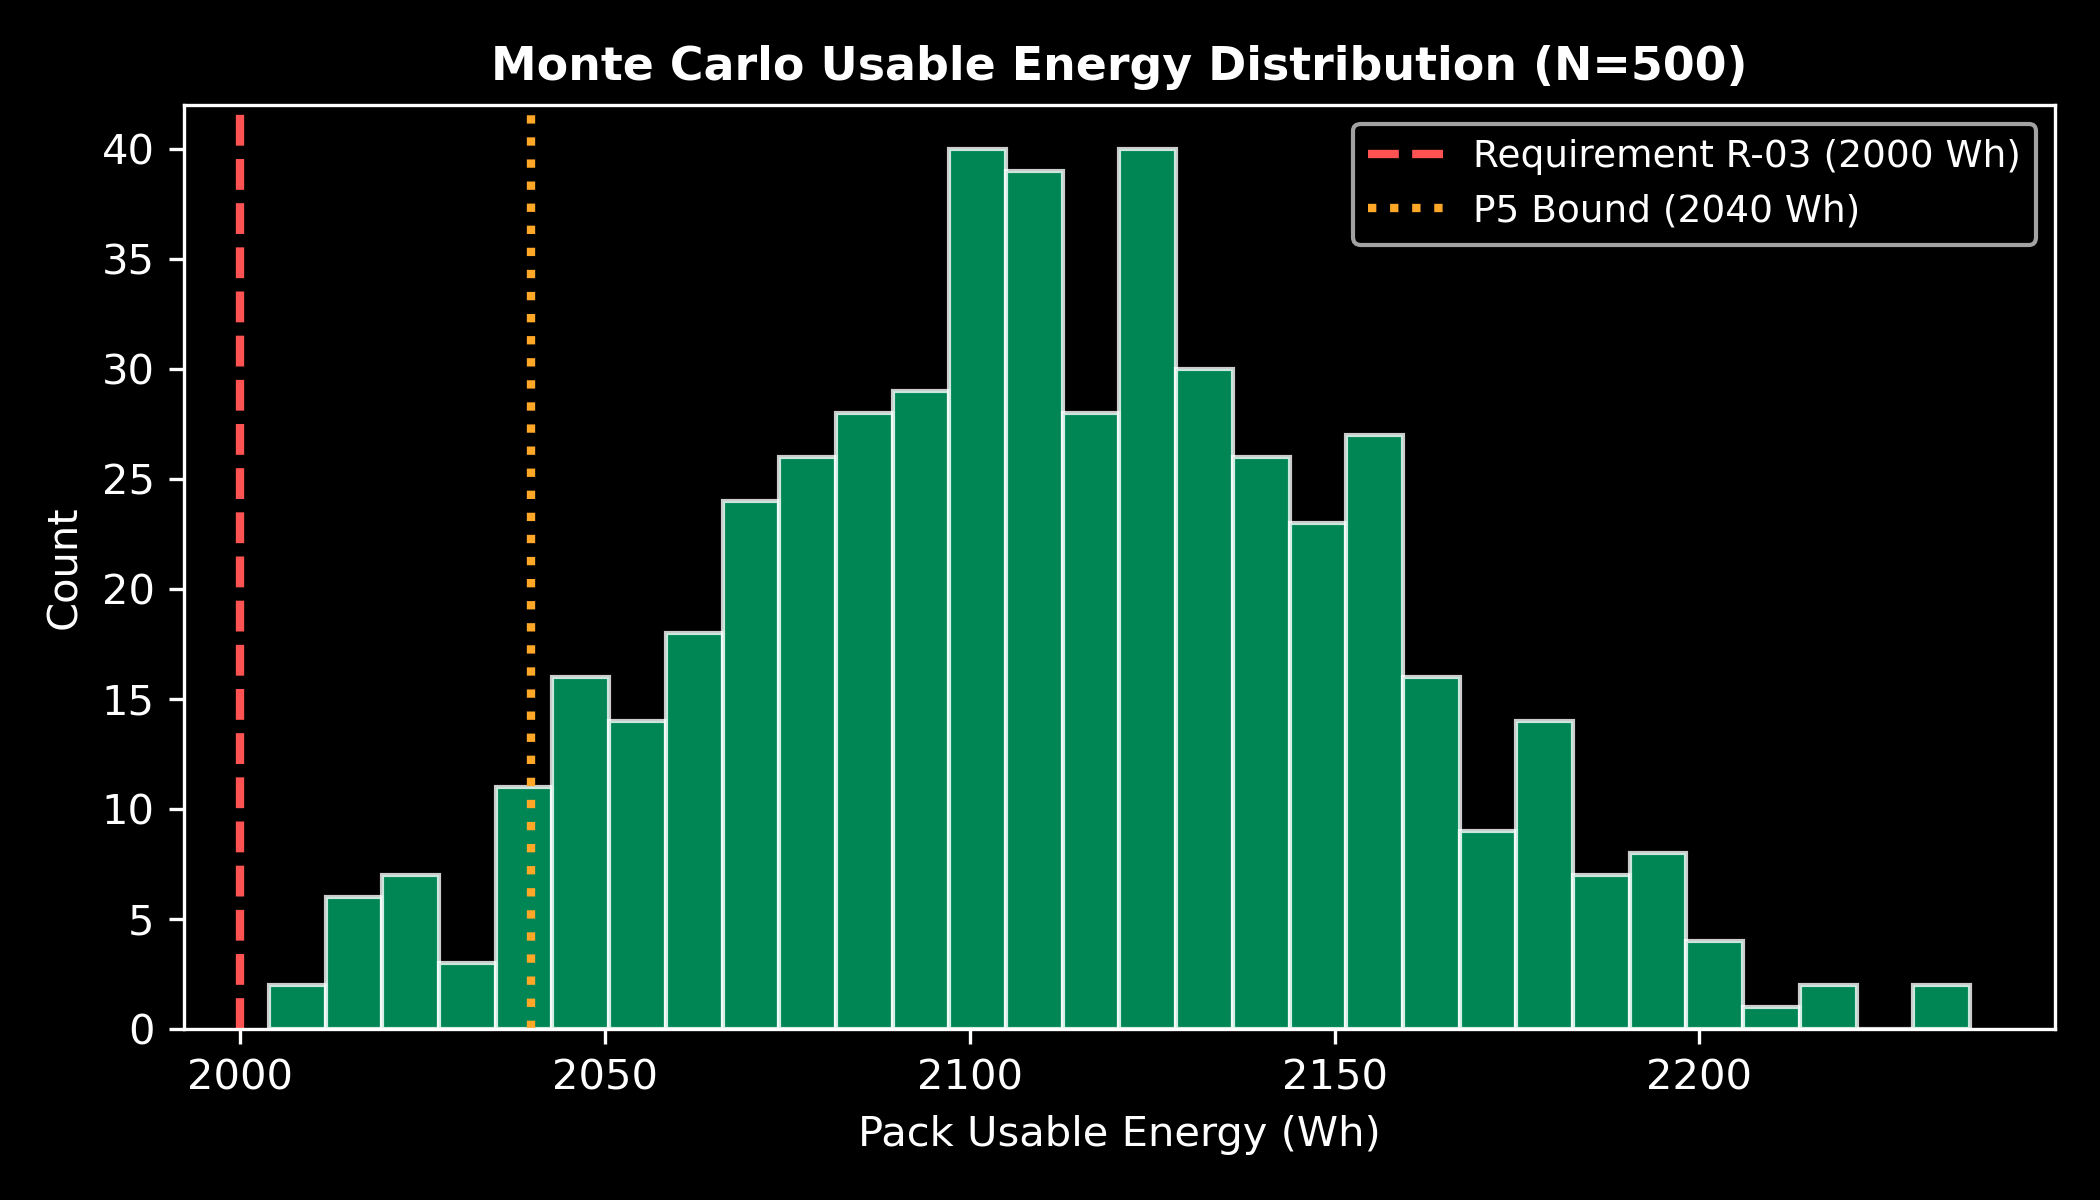
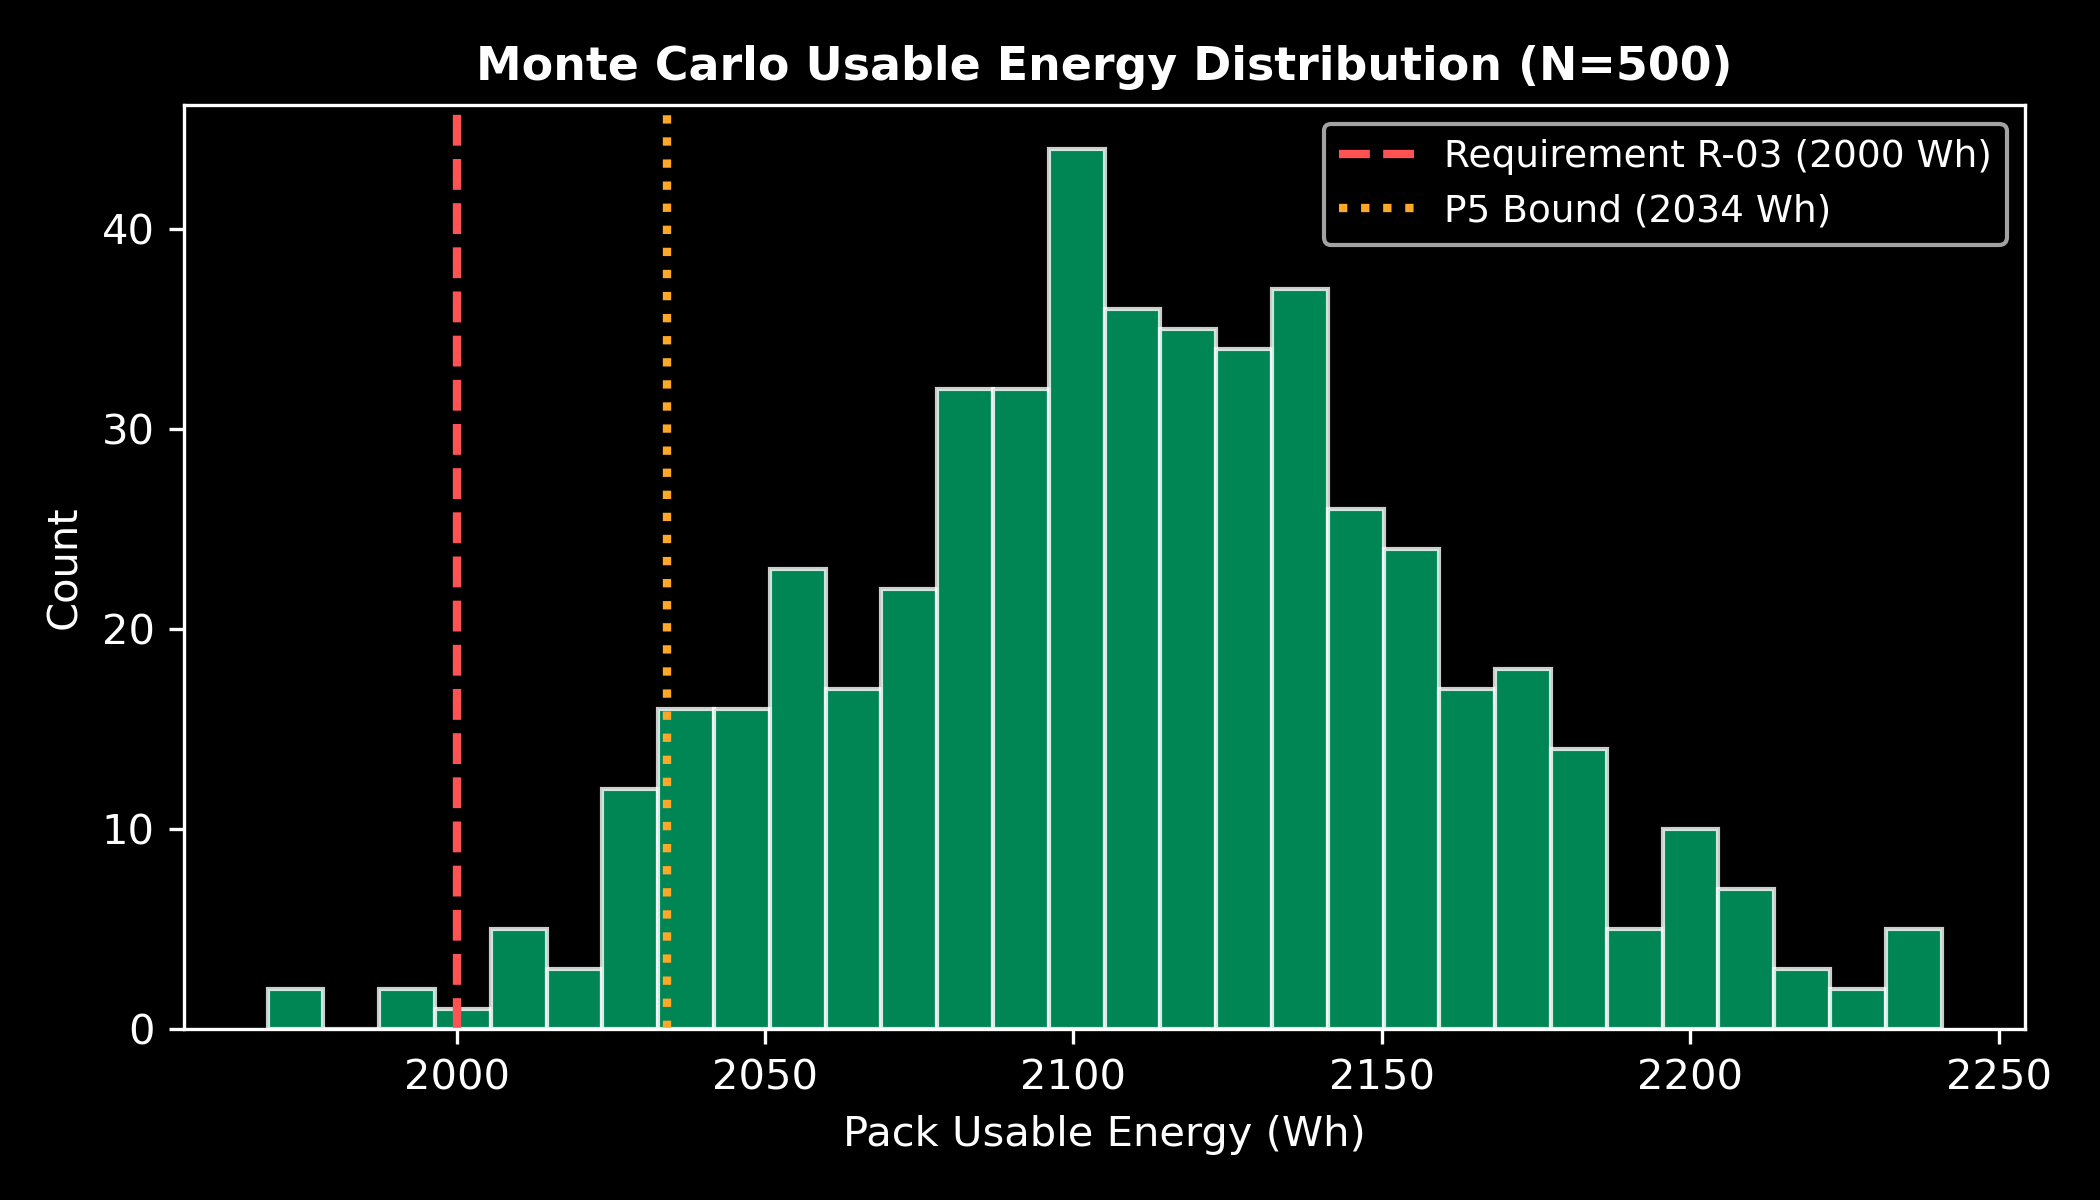
Rebrand platform to Q-Pack: Quantum-inspired Battery Energy System Platform

diff --git a/app/theme.py b/app/theme.py
@@ -1,4 +1,4 @@
-"""PackForge UI Design System — Professional Theme, CSS & Plotly Templates."""
+"""Q-Pack UI Design System — Professional Theme, CSS & Plotly Templates."""
 
 import streamlit as st
 import plotly.graph_objects as go
@@ -33,7 +33,7 @@ _PLOTLY_LAYOUT_DEFAULTS = dict(
 
 
 def apply_plotly_theme(fig: go.Figure) -> go.Figure:
-    """Apply PackForge brand theme to any Plotly figure."""
+    """Apply Q-Pack brand theme to any Plotly figure."""
     fig.update_layout(template=PLOTLY_TEMPLATE, **_PLOTLY_LAYOUT_DEFAULTS)
     fig.update_xaxes(
         gridcolor="rgba(48,54,61,0.8)",
@@ -49,7 +49,7 @@ def apply_plotly_theme(fig: go.Figure) -> go.Figure:
 
 
 def apply_theme():
-    """Inject PackForge global CSS into the Streamlit page."""
+    """Inject Q-Pack global CSS into the Streamlit page."""
     st.markdown(
         f"""
         <style>
@@ -391,13 +391,13 @@ def apply_theme():
 
 
 def render_sidebar_scenario(scenario_name: str = "48V Urban Two-Wheeler"):
-    """Render PackForge branded sidebar with active scenario badge."""
+    """Render Q-Pack branded sidebar with active scenario badge."""
     st.sidebar.markdown(
         f"""
         <div style="padding: 0.5rem 0 1rem 0;">
             <div style="font-size:1.35rem; font-weight:800; background:linear-gradient(90deg,{PRIMARY},{SECONDARY});
                         -webkit-background-clip:text; -webkit-text-fill-color:transparent; background-clip:text;">
-                ⚡ PackForge
+                ⚡ Q-Pack
             </div>
             <div style="font-size:0.72rem; color:{TEXT_MUTED}; font-weight:500; letter-spacing:0.05em; text-transform:uppercase;">
                 TELIPORT Season 4 · Case Study 2
@@ -419,7 +419,7 @@ def render_sidebar_scenario(scenario_name: str = "48V Urban Two-Wheeler"):
 
 
 def page_header(title: str, subtitle: str = "", icon: str = ""):
-    """Render a consistent PackForge page header."""
+    """Render a consistent Q-Pack page header."""
     icon_html = f'<span style="margin-right:0.4rem;">{icon}</span>' if icon else ""
     st.markdown(
         f"""
@@ -490,7 +490,7 @@ def finding_card(severity: str, title: str, subsystem: str, explanation: str, fi
 
 
 def hero_banner():
-    """Render the PackForge home hero section."""
+    """Render the Q-Pack home hero section."""
     st.markdown(
         f"""
         <div class="pf-hero">
@@ -499,7 +499,7 @@ def hero_banner():
                 <span class="pf-hero-tag" style="background:rgba(0,102,153,0.15); border-color:rgba(0,102,153,0.4); color:{SECONDARY};">Case Study 2</span>
                 <span class="pf-hero-tag" style="background:rgba(255,122,0,0.12); border-color:rgba(255,122,0,0.4); color:{ACCENT};">Battery Energy Systems</span>
             </div>
-            <div class="pf-hero-title">PackForge</div>
+            <div class="pf-hero-title">Q-Pack</div>
             <div class="pf-hero-subtitle">
                 From Cell Datasheet to Defensible Battery Design in Minutes.<br>
                 Multiphysics simulation · Quantum-Inspired QUBO Optimization · Full Traceability.

diff --git a/reports/make_report.py b/reports/make_report.py
@@ -1,4 +1,4 @@
-"""Report and Presentation Asset Generator for PackForge (`make report`).
+"""Report and Presentation Asset Generator for Q-Pack (`make report`).
 
 Generates 300 DPI high-resolution figures, CSV delta matrices, RESULTS.md,
 and SLIDE_NOTES.md mapped directly to the Tata Elxsi TELIPORT evaluation criteria.
@@ -10,7 +10,7 @@ import json
 from pathlib import Path
 from typing import Dict, Any
 
-os.environ["MPLCONFIGDIR"] = "/tmp/mpl_packforge"
+os.environ["MPLCONFIGDIR"] = "/tmp/mpl_q-pack"
 
 import matplotlib
 matplotlib.use("Agg")
@@ -35,7 +35,7 @@ def generate_ppt_asset_bundle(output_dir: str = "outputs/ppt_assets") -> None:
     scenario = Scenario()
     cells = load_cells()
 
-    print(f"=== Generating PackForge 300 DPI Asset Bundle -> {output_dir} ===")
+    print(f"=== Generating Q-Pack 300 DPI Asset Bundle -> {output_dir} ===")
 
     # 1. Evaluate Baselines & True Optimum
     exh: ExhaustiveResults = run_exhaustive_search(scenario)
@@ -88,7 +88,7 @@ def generate_ppt_asset_bundle(output_dir: str = "outputs/ppt_assets") -> None:
         ax.annotate(name, (r.bom_cost_USD + 5, r.usable_energy_Wh + 15), fontsize=9, fontweight="bold", color=palette[name])
 
     ax.axhline(2000.0, linestyle="--", color="#FF5252", alpha=0.8, label="Req R-03 (2000 Wh)")
-    ax.set_title("PackForge Design Space & Non-Dominated Pareto Frontier", fontsize=12, fontweight="bold")
+    ax.set_title("Q-Pack Design Space & Non-Dominated Pareto Frontier", fontsize=12, fontweight="bold")
     ax.set_xlabel("Bill-of-Materials Cost (USD)", fontsize=10)
     ax.set_ylabel("Usable Energy (Wh)", fontsize=10)
     ax.legend(loc="upper left", fontsize=8)
@@ -224,7 +224,7 @@ def generate_ppt_asset_bundle(output_dir: str = "outputs/ppt_assets") -> None:
         json.dump(summary_data, f, indent=2)
 
     # Auto-Fill RESULTS.md (Section 13)
-    results_md = f"""# PackForge Official Computed Results Summary
+    results_md = f"""# Q-Pack Official Computed Results Summary
 
 Generated automatically by `reports/make_report.py`. All values are computed directly from the physics simulator and benchmark data.
 
@@ -264,7 +264,7 @@ Mapped directly to the TELIPORT Season 4 evaluation weights (Problem Understandi
 
 ### Slide 2: The Multi-Disciplinary Physics Engine (15%)
 - **Headline**: High-fidelity subsystem models with a shared parameter bus.
-- **Story**: Rather than isolated spreadsheets, PackForge couples OCV-SoC voltage sag, lumped ODE thermal conduction (`solve_ivp`), CC-CV fast charging, and bottom-up BOM costing into a single reactive loop.
+- **Story**: Rather than isolated spreadsheets, Q-Pack couples OCV-SoC voltage sag, lumped ODE thermal conduction (`solve_ivp`), CC-CV fast charging, and bottom-up BOM costing into a single reactive loop.
 - **Visual**: `outputs/ppt_assets/thermal_heatmap.png`
 
 ---

diff --git a/optimize/benchmark.py b/optimize/benchmark.py
@@ -1,4 +1,4 @@
-"""Multi-Seed Benchmark Harness and Honest Verdict Generator for PackForge.
+"""Multi-Seed Benchmark Harness and Honest Verdict Generator for Q-Pack.
 
 Rigorously benchmarks Solvers:
   1. Exhaustive Search (Ground Truth)
@@ -39,7 +39,7 @@ def run_benchmark_suite(
     scenario = Scenario()
     weights = {"cost": 0.25, "peak_temp": 0.20, "mass": 0.15, "charge_time": 0.15, "usable_energy": 0.15, "cycle_life": 0.10}
 
-    print(f"=== Starting PackForge Optimization Benchmark ({n_seeds} seeds) ===")
+    print(f"=== Starting Q-Pack Optimization Benchmark ({n_seeds} seeds) ===")
 
     # 1. Compute Exhaustive Ground Truth
     print("[1/5] Running Exhaustive Search for Ground Truth...")
@@ -191,7 +191,7 @@ def run_benchmark_suite(
     nsga_succ = summary["solvers"]["NSGA_II"]["success_rate_pct"]
     nsga_time = summary["solvers"]["NSGA_II"]["runtime_mean_s"]
 
-    verdict_text = f"""# PackForge Optimization Benchmark: Honest Verdict
+    verdict_text = f"""# Q-Pack Optimization Benchmark: Honest Verdict
 
 **Benchmark Protocol**: {n_seeds} random seeds evaluated over {len(exh.designs)} feasible pack designs.
 Ground truth established via exhaustive simulator evaluation.
@@ -219,7 +219,7 @@ Ground truth established via exhaustive simulator evaluation.
 
 
 if __name__ == "__main__":
-    parser = argparse.ArgumentParser(description="Run PackForge Benchmark Suite")
+    parser = argparse.ArgumentParser(description="Run Q-Pack Benchmark Suite")
     parser.add_argument("--seeds", type=int, default=30, help="Number of seeds (default: 30)")
     parser.add_argument("--out", type=str, default="outputs/benchmark", help="Output directory")
     args = parser.parse_args()

diff --git a/app/Home.py b/app/Home.py
@@ -1,4 +1,4 @@
-"""PackForge: Reusable Digital Platform for Designing Battery Energy Systems.
+"""Q-Pack: Reusable Digital Platform for Designing Battery Energy Systems.
 Tata Elxsi TELIPORT Season 4 — Case Study 2.
 """
 
@@ -21,7 +21,7 @@ from models.evaluate import evaluate
 from core.schemas import Scenario
 
 st.set_page_config(
-    page_title="PackForge | Battery Energy System Platform",
+    page_title="Q-Pack | Battery Energy System Platform",
     page_icon="⚡",
     layout="wide",
     initial_sidebar_state="expanded",
@@ -35,7 +35,7 @@ cells = load_cells()
 unverified_count = sum(1 for c in cells.values() if not c.verified)
 if unverified_count > 0:
     st.sidebar.warning(f"⚠ {unverified_count} cell(s) have unverified datasheets.")
-st.sidebar.caption("Navigate the pages using the menu above to explore PackForge capabilities.")
+st.sidebar.caption("Navigate the pages using the menu above to explore Q-Pack capabilities.")
 
 # ── Hero Banner ───────────────────────────────────────────────────────────────
 hero_banner()

diff --git a/models/evaluate.py b/models/evaluate.py
@@ -1,4 +1,4 @@
-"""Unified Multi-Disciplinary Simulation Evaluator for PackForge.
+"""Unified Multi-Disciplinary Simulation Evaluator for Q-Pack.
 
 Single pure entry point:
     evaluate(design: PackDesign, scenario: Optional[Scenario] = None, fast: bool = False) -> EvaluationResult
@@ -36,7 +36,7 @@ from analysis.constraints import evaluate_requirements
 from analysis.conflicts import detect_conflicts
 
 
-MODEL_VERSION = "PackForge-v1.0.0"
+MODEL_VERSION = "Q-Pack-v1.0.0"
 MODEL_HASH = hashlib.sha256(MODEL_VERSION.encode()).hexdigest()[:12]
 
 # Cache dictionary for fast evaluations during optimization

diff --git a/optimize/qubo_build.py b/optimize/qubo_build.py
@@ -1,4 +1,4 @@
-"""QUBO Construction, Surrogate Regression, and Binary Encoding for PackForge.
+"""QUBO Construction, Surrogate Regression, and Binary Encoding for Q-Pack.
 
 Maps the discrete battery design space into one-hot binary decision variables,
 fits a regularized pairwise interaction surrogate Hamiltonian from true simulations,

diff --git a/optimize/__init__.py b/optimize/__init__.py
@@ -1,4 +1,4 @@
-"""PackForge Optimization Engine: Space, Solvers, QUBO, and Benchmark Suite."""
+"""Q-Pack Optimization Engine: Space, Solvers, QUBO, and Benchmark Suite."""
 
 from optimize.space import enumerate_design_space, get_baseline_designs
 from optimize.exhaustive import run_exhaustive_search, ExhaustiveResults

diff --git a/optimize/exhaustive.py b/optimize/exhaustive.py
@@ -1,4 +1,4 @@
-"""Exhaustive Evaluation and Ground-Truth Generator for PackForge.
+"""Exhaustive Evaluation and Ground-Truth Generator for Q-Pack.
 
 Evaluates all structurally feasible configurations in the discrete design space,
 yielding the true global optimum and true Pareto front for benchmark comparison.

diff --git a/models/variation.py b/models/variation.py
@@ -1,4 +1,4 @@
-"""Monte Carlo Cell-to-Cell Variation Model for PackForge.
+"""Monte Carlo Cell-to-Cell Variation Model for Q-Pack.
 
 Propagates manufacturing cell-level capacity and impedance spreads to system-level
 pack performance, calculating weakest-group capacity bottleneck and failure probabilities.

diff --git a/core/context.py b/core/context.py
@@ -1,4 +1,4 @@
-"""DesignContext: Shared Parameter Bus for PackForge Subsystem Integration.
+"""DesignContext: Shared Parameter Bus for Q-Pack Subsystem Integration.
 
 Maintains unified state, units, provenance, and dependency tracking across
 electrical, thermal, mechanical, BMS, and cost subsystems.

diff --git a/analysis/traceability.py b/analysis/traceability.py
@@ -1,4 +1,4 @@
-"""Traceability Graph and Matrix Engine for PackForge.
+"""Traceability Graph and Matrix Engine for Q-Pack.
 
 Constructs a bipartite/multipartite NetworkX graph linking Requirements, Components,
 Assumptions, Models, Results, and Validation Evidence. Generates full compliance matrices

diff --git a/analysis/__init__.py b/analysis/__init__.py
@@ -1,4 +1,4 @@
-"""PackForge Analysis Module: Constraints, Conflicts, Traceability, and Sensitivity."""
+"""Q-Pack Analysis Module: Constraints, Conflicts, Traceability, and Sensitivity."""
 
 from analysis.constraints import evaluate_requirements
 from analysis.conflicts import detect_conflicts
